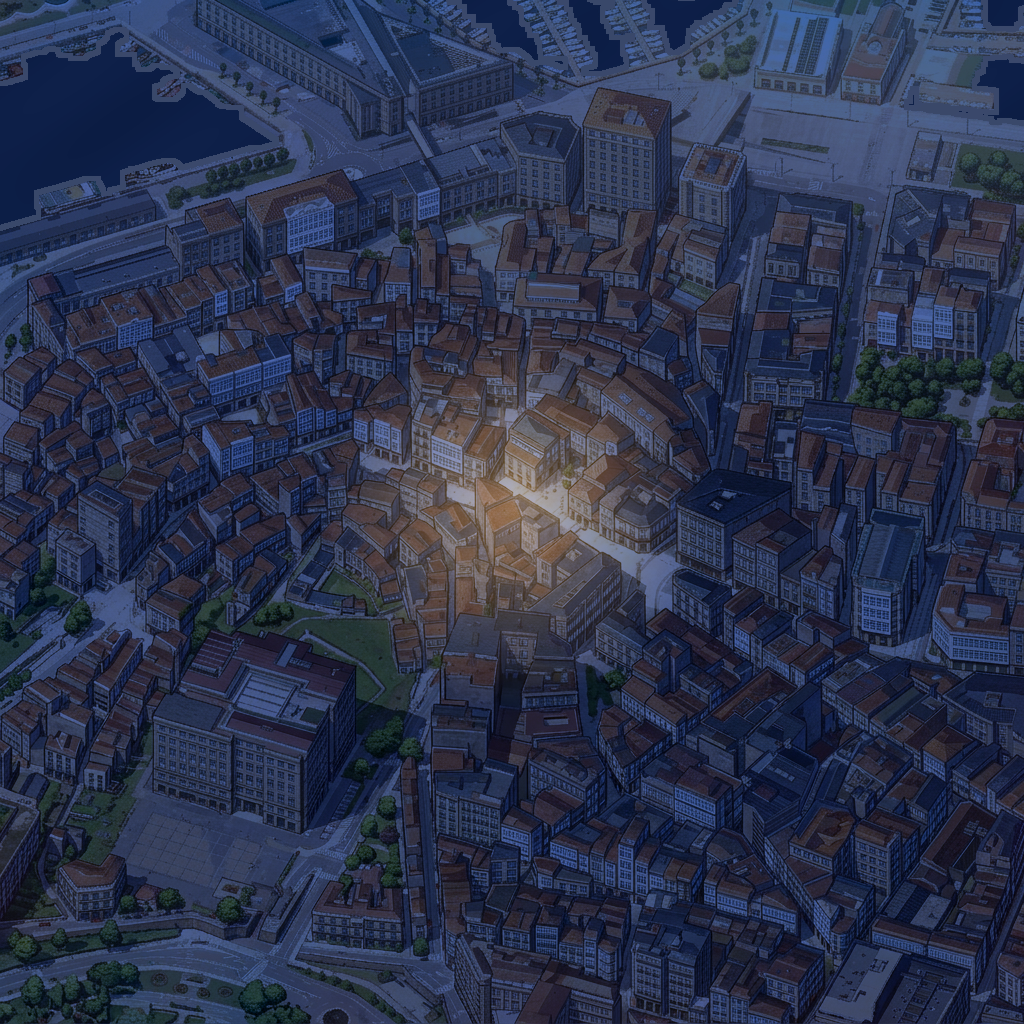
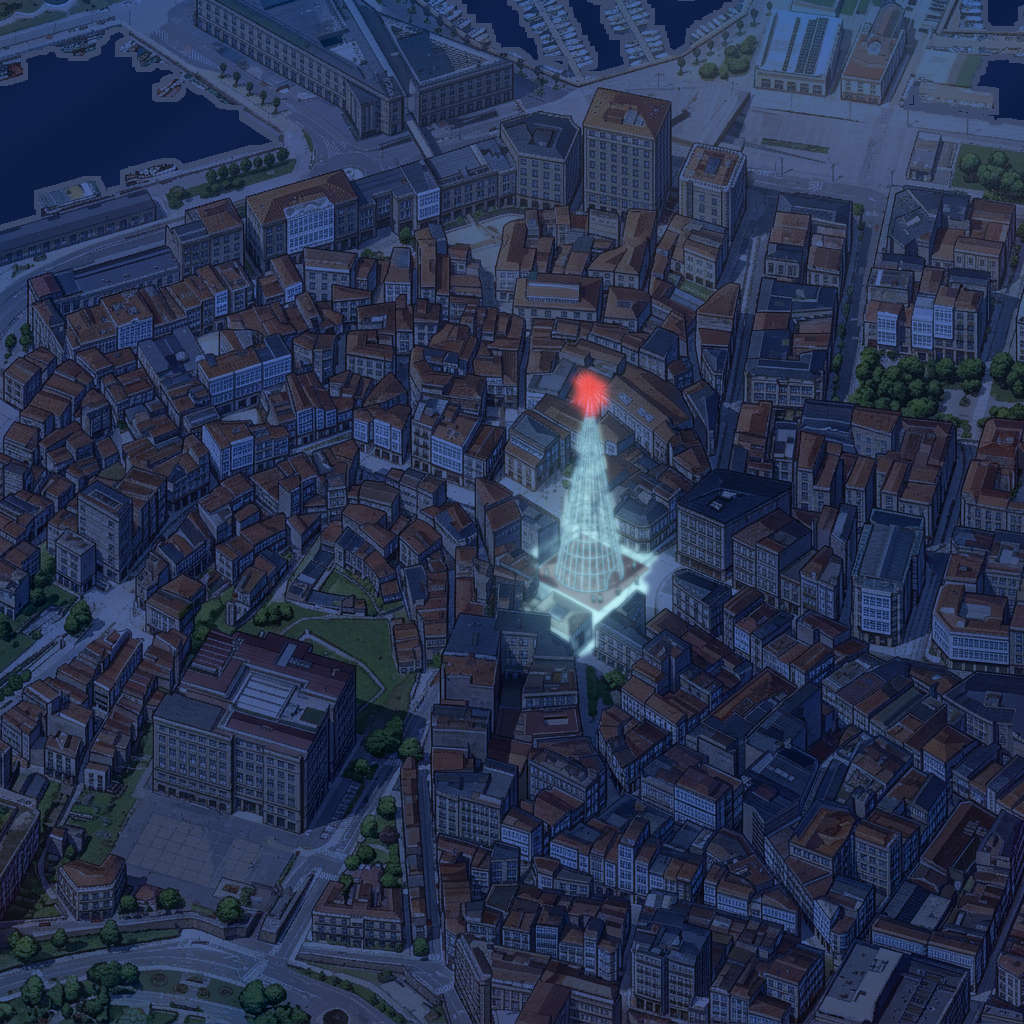
fix(map): repaint the Porta do Sol tree as the real lattice tower, not a fir
ASSETS-03. Two bugs in the previous pass: the model placed a generic green
fir tree near the wrong square (no crop to the real plaza, no content
reference), and separately drew the correct shape once but as a pine tree
because nothing told it otherwise.

pipeline/arbol_porta_sol.py: now passes web/ui/assets/foto-arbol.jpg as a
second, content-only reference image (Picture 2), with a written
description of the real structure (45 m metal lattice cone, no branches,
LED strips, 13 m red starburst, red carpet base) — pipeline/prompts/
arbol-add-real.txt. Drawn switched off, in daylight, per spec (light is
code, not paint).

pipeline/arbol_noche.py: the night version, entirely by code. The base
tint is measured from the existing day/night pair of the block without
the tree (a plain per-channel multiply, see NIGHT_TINT) so it matches the
rest of the map; the light layer is built from the tree's own mask, not a
fixed shape — cyan/white strands that follow the lattice drawn in the day
tile (via its own luminance as an emission map), a red glow on the
starburst, and a soft bloom. Exported as a standalone screen-blend sprite
(assets-prueba/arbol-luz-sprite.png) for the real day/night toggle later;
'parpadeo suave' is an opacity animation on that sprite, not baked in.

3 image calls spent (ledger): one wasted (forgot to swap the prompt before
calling, kept for the record), two that worked.

Changed region(s): [[0.3438, 0.3438, 0.6562, 0.6562]]

diff --git a/web/ui/assets-prueba.html b/web/ui/assets-prueba.html
@@ -21,7 +21,7 @@
 <body>
 <h1>Prueba de asset: el árbol de Porta do Sol</h1>
 <p class="lead">Método: recorte del bloque ensamblado → el modelo pinta el árbol dentro, mismo estilo → se compone con máscara suave (fuera queda el bloque intacto). Sin croma ni recorte pegado.</p>
-<div class="aviso">Rehecho (pipeline/arbol_porta_sol.py): el intento anterior pintaba el árbol fuera de la Porta do Sol real y la máscara lo recortaba, dejando solo un parche de tejados repintados sin árbol. Ahora se recorta un cuadro de 350 px centrado en la plaza (georreferencia del lienzo, 42.23807 -8.72581), se amplía a 1024 px antes de llamar al modelo, y se compone con una máscara que sale del propio cambio de píxeles (árbol + gente + su sombra), no de una zona fija: fuera de ese contorno el resultado es bit a bit igual al original. Noche todavía pendiente de la misma corrección.</div>
+<div class="aviso">Rehecho dos veces. 1) <code>pipeline/arbol_porta_sol.py</code>: el intento anterior pintaba el árbol fuera de la Porta do Sol real y la máscara lo recortaba, dejando solo un parche de tejados sin árbol; ahora se recorta un cuadro de 350&nbsp;px centrado en la plaza (georreferencia del lienzo, 42.23807&nbsp;-8.72581), se amplía a 1024&nbsp;px, y se compone con una máscara que sale del propio cambio de píxeles, nunca de una zona fija. 2) El árbol pintado era un abeto genérico: ahora se pasa <code>assets/foto-arbol.jpg</code> (la estructura real) como referencia de contenido, junto con la descripción de su forma — celosía metálica cónica con tiras de luz, sin ramas, estrella roja radial, carpa roja en la base. De noche, <code>pipeline/arbol_noche.py</code> pinta el tinte azul oscuro de siempre (medido del par día/noche sin árbol) y añade una capa de luz cian/blanca + estrella roja sacada de la propia silueta de la celosía (<code>assets-prueba/arbol-luz-sprite.png</code>, pensada para <code>mix-blend-mode: screen</code> + una animación de <code>opacity</code> para el parpadeo). Fuera del contorno del árbol, el día es bit a bit igual al original.</div>
 
 <h2>Día · antes / después (a escala real, 512 m)</h2>
 <div class="par">

diff --git a/pipeline/arbol_noche.py b/pipeline/arbol_noche.py
@@ -1,0 +1,97 @@
+"""Night version of the Porta do Sol tree demo, entirely by code — no image call.
+
+Per spec: the base map is painted unlit; night, light and brightness are code. So the tree is painted
+switched OFF (see arbol_porta_sol.py) and this script adds the "on" state: a night tint over the whole
+1024 px demo crop, measured from the pair that already exists for the base map (noche-antes.png vs
+dia-antes.png, from before the tree — same multiply constant everywhere, see NIGHT_TINT), plus a light
+layer built only from the tree's own silhouette (the mask from arbol_porta_sol.py, not a hand-drawn
+shape): cyan/white strings over the body, a warm red glow at the star, and a soft bloom spilling onto
+the plaza, matching the real Porta do Sol tree (metal lattice with cyan/white LED strips, red starburst
+on top) instead of the discarded warm-gold fir-tree look.
+
+    python3 pipeline/arbol_noche.py
+"""
+from __future__ import annotations
+
+import cv2
+import numpy as np
+from PIL import Image
+
+from arbol_porta_sol import HALF, OUT_DIR, build_mask, crop_box
+
+# measured from web/ui/assets-prueba/{dia,noche}-antes.png (7 sample points, std < 0.01 per channel):
+# noche = dia * NIGHT_TINT, a plain multiply blend with a fixed navy colour, everywhere but the glow.
+NIGHT_TINT = np.array([0.292, 0.396, 0.696], np.float32)
+DEMO = 1024  # the demo crop is the full canvas centre ± 512 px, same convention as dia-antes.png
+
+
+def glow(mask: np.ndarray, sigma: float, gain: float) -> np.ndarray:
+    return np.clip(cv2.GaussianBlur(mask, (0, 0), sigma) * gain, 0, 1)
+
+
+def main() -> None:
+    day = np.asarray(Image.open(OUT_DIR / "dia-despues-v2.png").convert("RGB")).astype(np.float32)
+    night_base = day * NIGHT_TINT[None, None, :]
+
+    # place the tree mask (computed at the model's 1024 px crop, see build_mask) into the 1024 px demo
+    # crop's coordinate space: the plaza crop sits at `crop_box()` in canvas px, the demo crop is the
+    # canvas centre ± 512 px, so the offset between the two is fixed geometry, not a guess.
+    bx0, by0, bx1, by1 = crop_box()
+    # the demo crop is canvas centre ± 512 px (same convention as arbol_porta_sol.main()); the canvas
+    # centre is not CX,CY (that is the plaza centre), so read the real canvas size instead of guessing.
+    full = Image.open(OUT_DIR / "canvas-con-arbol.png")
+    cx, cy = full.size[0] // 2, full.size[1] // 2
+    off_x, off_y = bx0 - (cx - DEMO // 2), by0 - (cy - DEMO // 2)
+
+    src350 = np.asarray(Image.open(OUT_DIR / "arbol-ps-crop350.png").convert("RGB"))
+    dst350 = np.asarray(Image.open(OUT_DIR / "arbol-ps-out350.png").convert("RGB"))
+    mask1024 = build_mask(np.asarray(Image.open(OUT_DIR / "arbol-ps-in1024.png").convert("RGB")),
+                           np.asarray(Image.open(OUT_DIR / "arbol-ps-out1024.png").convert("RGB")))
+    mask350 = cv2.resize(mask1024, (2 * HALF, 2 * HALF), interpolation=cv2.INTER_AREA)
+
+    mask_demo = np.zeros((DEMO, DEMO), np.float32)
+    mask_demo[off_y:off_y + 2 * HALF, off_x:off_x + 2 * HALF] = mask350
+
+    ys, xs = np.where(mask_demo > 0.5)
+    y0, y1 = ys.min(), ys.max()
+    star_cut = y0 + int((y1 - y0) * 0.16)  # top ~16 % of the silhouette is the starburst
+    star_mask = mask_demo.copy(); star_mask[star_cut:] = 0
+    body_mask = mask_demo.copy(); body_mask[:star_cut] = 0
+
+    cyan_white = np.array([150, 230, 240], np.float32)
+    red = np.array([255, 60, 45], np.float32)
+
+    # the day paint is a silver-grey lattice (bright lines, dark gaps) on top of the plaza; use its own
+    # luminance inside the mask as an emission map, so the lights follow the actual struts and strips
+    # the model drew instead of flooding the whole silhouette into one flat glowing blob.
+    day_l = cv2.cvtColor(day.astype(np.uint8), cv2.COLOR_RGB2LAB)[..., 0].astype(np.float32) / 255
+    strands = body_mask * np.clip((day_l - 0.35) / 0.5, 0, 1) ** 0.7
+
+    def screen(base: np.ndarray, light: np.ndarray) -> np.ndarray:
+        return 255 - (255 - base) * (255 - light) / 255
+
+    bloom = glow(mask_demo, 34, 0.55)[..., None] * cyan_white[None, None, :]
+    body_light = glow(strands, 1.6, 1.0)[..., None] * cyan_white[None, None, :]
+    star_light = glow(star_mask, 3.0, 0.9)[..., None] * red[None, None, :]
+
+    night = night_base.copy()
+    night = screen(night, bloom)
+    night = screen(night, body_light)
+    night = screen(night, star_light)
+    night = np.clip(night, 0, 255).astype(np.uint8)
+    Image.fromarray(night).save(OUT_DIR / "noche-despues-v2.png")
+
+    # standalone light layer: drop this PNG with CSS `mix-blend-mode: screen` over any night base and
+    # animate `opacity` 0.85-1 on a ~2.2 s ease-in-out loop for the "parpadeo suave" — same recipe as
+    # the existing .parpadeo rule in web/ui/assets-prueba.html, just driven by this sprite instead of
+    # hand-drawn SVG dots, since the shape now comes from the mask, not from a guess.
+    light_sprite = np.clip(bloom + body_light + star_light, 0, 255).astype(np.uint8)
+    alpha = np.clip(glow(mask_demo, 6, 1.0) * 255, 0, 255).astype(np.uint8)
+    sprite_rgba = np.dstack([light_sprite, alpha])
+    Image.fromarray(sprite_rgba, "RGBA").save(OUT_DIR / "arbol-luz-sprite.png")
+    print("saved", OUT_DIR / "noche-despues-v2.png", "and", OUT_DIR / "arbol-luz-sprite.png")
+    print("tree bbox in demo crop:", xs.min(), xs.max(), ys.min(), ys.max())
+
+
+if __name__ == "__main__":
+    main()

diff --git a/pipeline/arbol_porta_sol.py b/pipeline/arbol_porta_sol.py
@@ -29,7 +29,8 @@ from PIL import Image
 ROOT = Path(__file__).resolve().parents[1]
 CANVAS = Path.home() / "proyectos/NaviHack/work/tiles-p3/ensamblado-v6.png"  # best current style (v6)
 OUT_DIR = ROOT / "work/assets"
-PROMPT = ROOT / "pipeline/prompts/arbol-add-full.txt"
+PROMPT = ROOT / "pipeline/prompts/arbol-add-real.txt"
+PHOTO_REF = ROOT / "web/ui/assets/foto-arbol.jpg"  # real Porta do Sol tree, content reference only
 # centre of the plaza, found by eye around the geo-referenced canvas centre (1536,1536) = Porta do Sol
 CX, CY, HALF = 1608, 1518, 175  # box: (1433,1343)-(1783,1693), 350x350
 
@@ -65,6 +66,9 @@ def main() -> None:
     ap.add_argument("--call", action="store_true", help="spend one image call")
     ap.add_argument("--from-file", dest="from_file", type=Path, default=None, help="reuse an existing model answer")
     ap.add_argument("--label", default="arbol-porta-sol-v2")
+    ap.add_argument("--with-photo", action="store_true", default=True)
+    ap.add_argument("--no-photo", dest="with_photo", action="store_false")
+    ap.add_argument("--prompt", type=Path, default=None)
     a = ap.parse_args()
     OUT_DIR.mkdir(parents=True, exist_ok=True)
 
@@ -80,7 +84,9 @@ def main() -> None:
     if a.from_file:
         out1024 = a.from_file
     elif a.call:
-        cmd = ["node", str(ROOT / "pipeline/imggen.mjs"), str(out1024), str(PROMPT), str(in1024)]
+        prompt = a.prompt or PROMPT
+        imgs = [str(in1024)] + ([str(PHOTO_REF)] if a.with_photo else [])
+        cmd = ["node", str(ROOT / "pipeline/imggen.mjs"), str(out1024), str(prompt), *imgs]
         env = {**os.environ, "MODEL": "gemini-3.1-flash-image", "AR": "1:1", "LABEL": a.label}
         r = subprocess.run(cmd, env=env)
         if r.returncode != 0:
